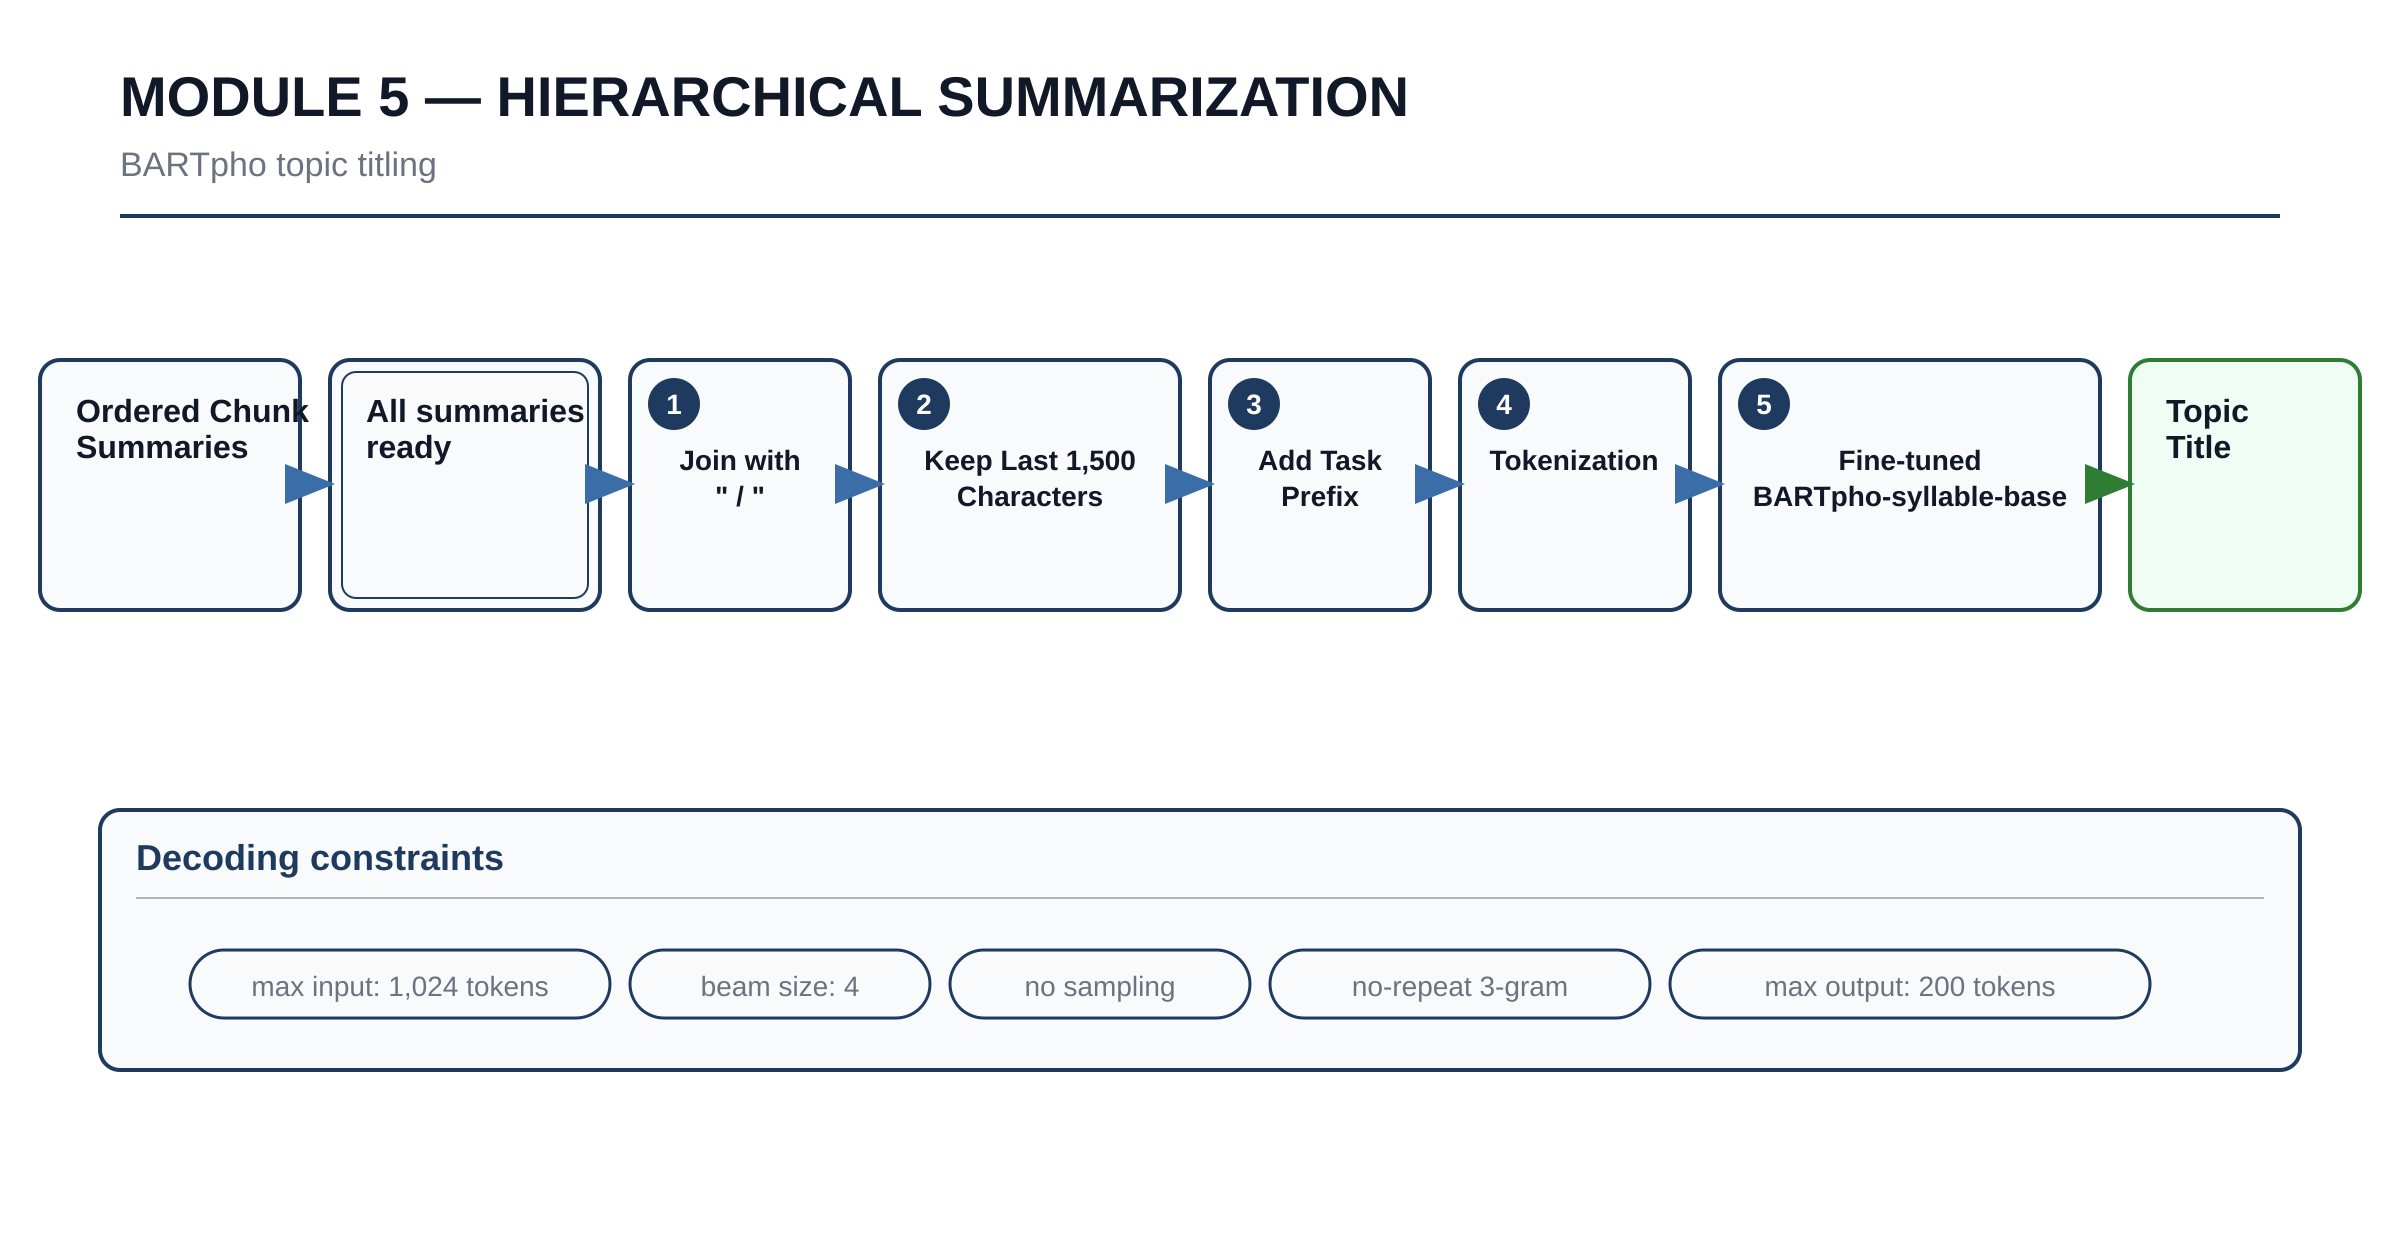
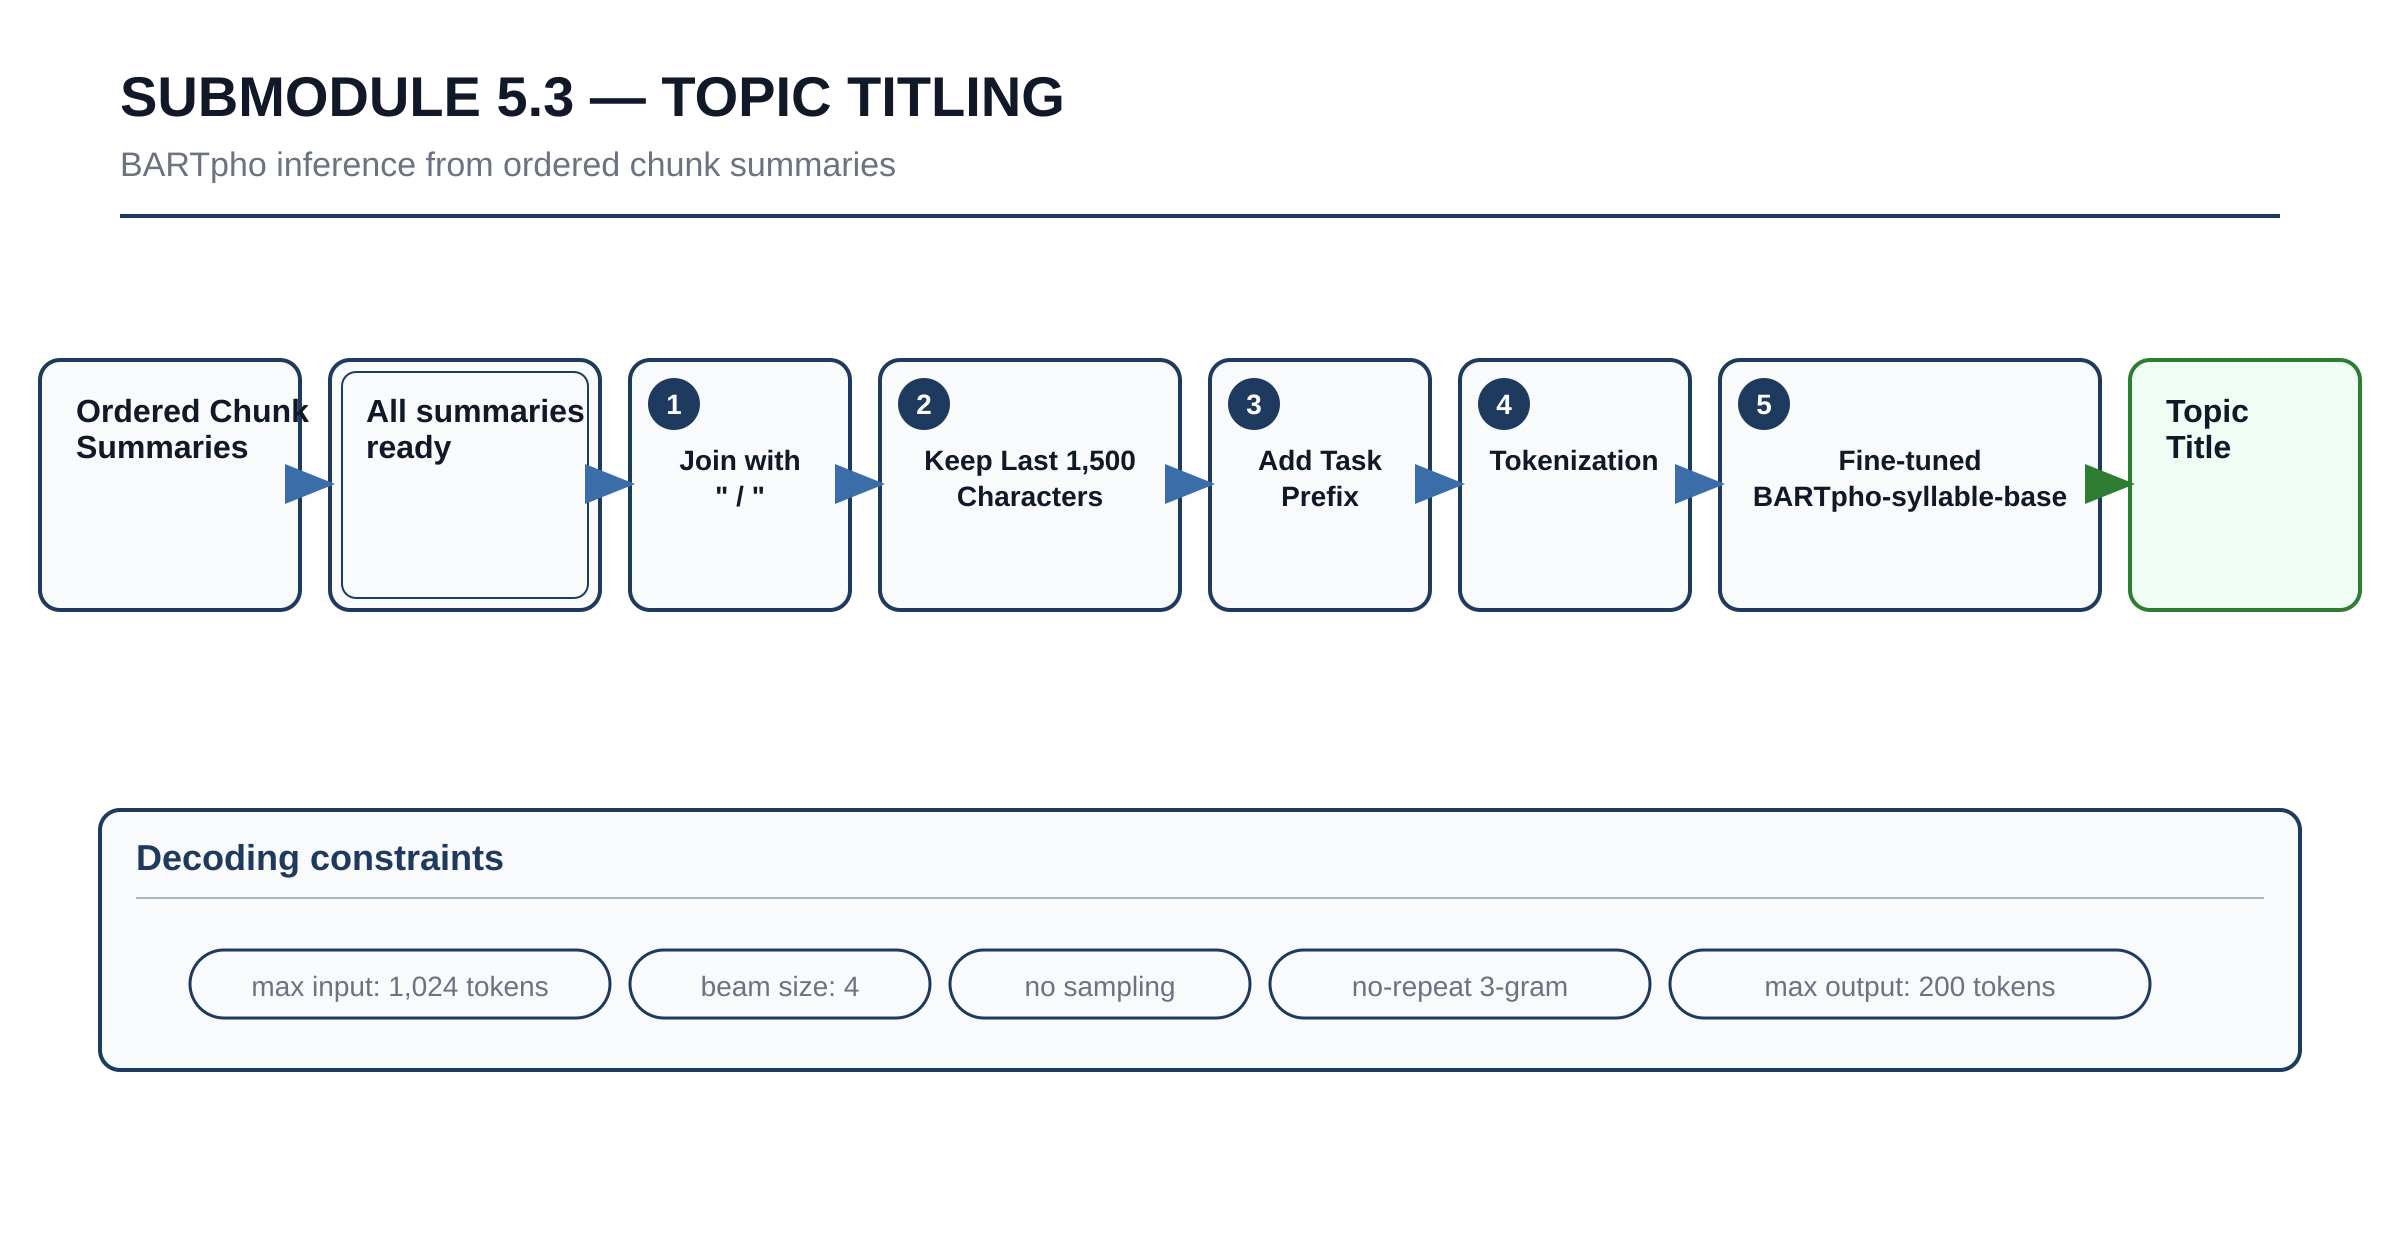
fix(report): title detail diagrams by submodule

Changed region(s): [[0.0312, 0.0613, 0.5938, 0.0919], [0.125, 0.1226, 0.375, 0.1532]]

diff --git a/scripts/generate_report_method_diagrams.py b/scripts/generate_report_method_diagrams.py
@@ -492,8 +492,8 @@ def figure_03(path: Path) -> Path:
     svg_open(
         lines,
         height=720,
-        title="MODULE 4 — TOPIC SEGMENTATION",
-        subtitle="Multi-scale depth aggregation",
+        title="SUBMODULE 4.2 — MULTI-SCALE DEPTH",
+        subtitle="Depth scoring, normalization, and aggregation",
     )
     panels = (
         (50, "Input — Similarity Profile"),
@@ -629,8 +629,8 @@ def figure_04(path: Path) -> Path:
     svg_open(
         lines,
         height=620,
-        title="MODULE 4 — TOPIC SEGMENTATION",
-        subtitle="Adaptive candidate selection",
+        title="SUBMODULE 4.3 — ADAPTIVE THRESHOLD",
+        subtitle="Local thresholding and boundary candidate selection",
     )
     add_panel(
         lines,
@@ -750,8 +750,8 @@ def figure_05(path: Path) -> Path:
     svg_open(
         lines,
         height=670,
-        title="MODULE 4 — TOPIC SEGMENTATION",
-        subtitle="Streaming boundary confirmation",
+        title="SUBMODULE 4.5 — STREAMING CONFIRMATION",
+        subtitle="Delayed boundary confirmation across overlapping windows",
     )
     frames = (
         (55, "Window t", "Candidate", 190, 105, "process"),
@@ -927,8 +927,8 @@ def figure_07(path: Path) -> Path:
     svg_open(
         lines,
         height=590,
-        title="MODULE 5 — HIERARCHICAL SUMMARIZATION",
-        subtitle="Utterance chunking",
+        title="SUBMODULE 5.1 — UTTERANCE CHUNKING",
+        subtitle="Chronological non-overlapping chunk construction",
     )
     add_panel(
         lines,
@@ -1014,8 +1014,8 @@ def figure_08(path: Path) -> Path:
     svg_open(
         lines,
         height=590,
-        title="MODULE 5 — HIERARCHICAL SUMMARIZATION",
-        subtitle="ViT5 chunk summarization",
+        title="SUBMODULE 5.2 — CHUNK SUMMARIZATION",
+        subtitle="ViT5 inference for one utterance chunk",
     )
     stages = (
         (30, 145, "Speaker-labelled\nUtterances", "process", None),
@@ -1067,8 +1067,8 @@ def figure_09(path: Path) -> Path:
     svg_open(
         lines,
         height=620,
-        title="MODULE 5 — HIERARCHICAL SUMMARIZATION",
-        subtitle="BARTpho topic titling",
+        title="SUBMODULE 5.3 — TOPIC TITLING",
+        subtitle="BARTpho inference from ordered chunk summaries",
     )
     stages = (
         (20, 130, "ordered-summaries", "Ordered Chunk\nSummaries", "process", None, 0),

diff --git a/tests/unit/test_report_method_diagrams.py b/tests/unit/test_report_method_diagrams.py
@@ -53,17 +53,20 @@ def test_generate_all_writes_nine_white_svg_figures_in_order(tmp_path: Path) -> 
     assert all('fill="#ffffff"' in path.read_text() for path in outputs)
 
 
-def test_generate_all_uses_the_required_english_title_families(tmp_path: Path) -> None:
-    """Catch figures that lose their report-level module context."""
+def test_generate_all_titles_each_detail_with_its_actual_submodule(tmp_path: Path) -> None:
+    """Keep overview titles on parent modules and detail titles on submodules."""
     outputs = generate_all(tmp_path)
     documents = [path.read_text() for path in outputs]
 
     assert "SYSTEM OVERVIEW — FIVE-MODULE PIPELINE" in documents[0]
-    assert all("MODULE 4 — TOPIC SEGMENTATION" in document for document in documents[1:5])
-    assert all(
-        "MODULE 5 — HIERARCHICAL SUMMARIZATION" in document
-        for document in documents[5:]
-    )
+    assert "MODULE 4 — TOPIC SEGMENTATION" in documents[1]
+    assert "SUBMODULE 4.2 — MULTI-SCALE DEPTH" in documents[2]
+    assert "SUBMODULE 4.3 — ADAPTIVE THRESHOLD" in documents[3]
+    assert "SUBMODULE 4.5 — STREAMING CONFIRMATION" in documents[4]
+    assert "MODULE 5 — HIERARCHICAL SUMMARIZATION" in documents[5]
+    assert "SUBMODULE 5.1 — UTTERANCE CHUNKING" in documents[6]
+    assert "SUBMODULE 5.2 — CHUNK SUMMARIZATION" in documents[7]
+    assert "SUBMODULE 5.3 — TOPIC TITLING" in documents[8]
 
 
 def test_generate_all_keeps_visible_svg_text_english_only(tmp_path: Path) -> None:
